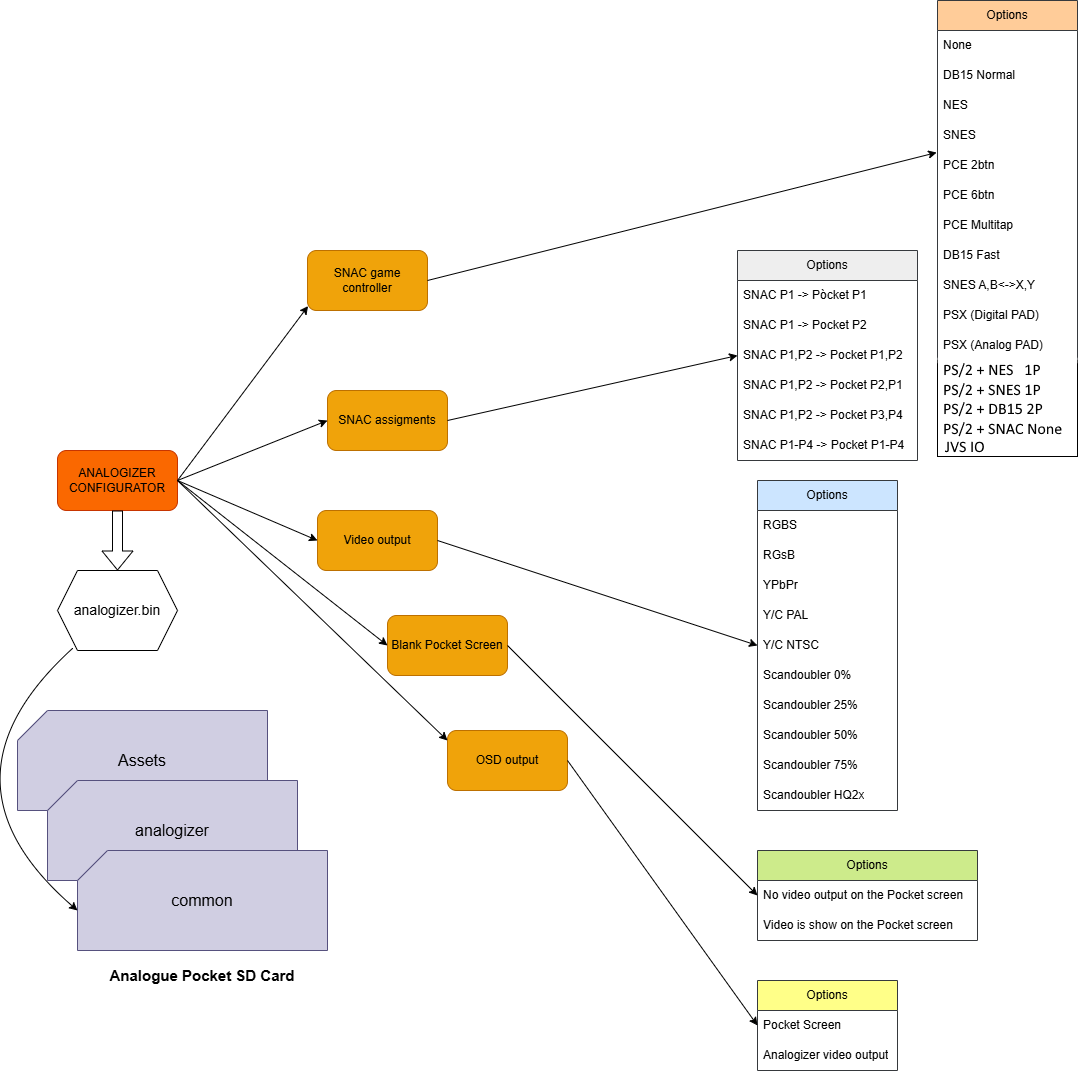
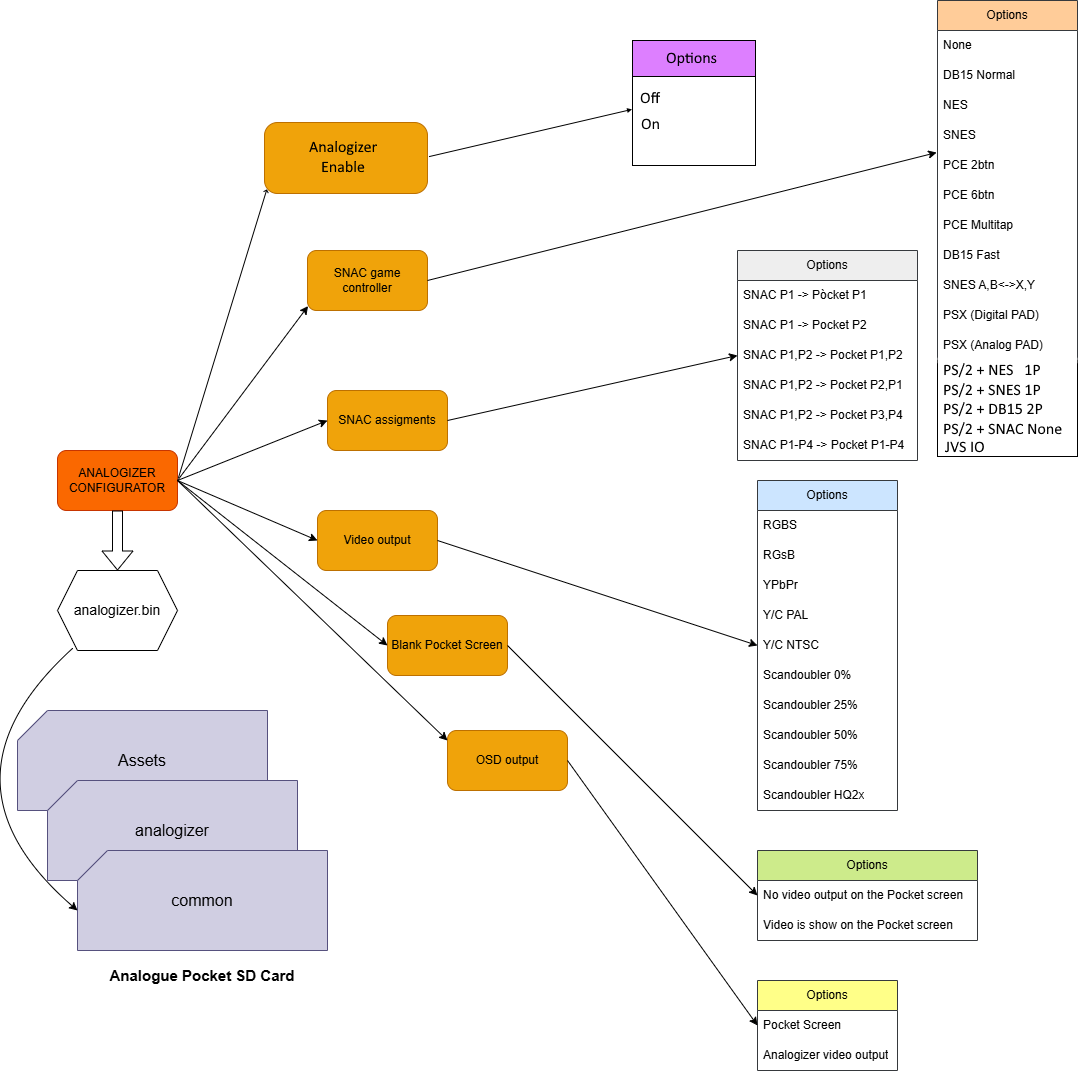
Update readme and Program Version

Changed region(s): [[0.2447, 0.0924, 0.3976, 0.1849], [0.5811, 0.0308, 0.7034, 0.1232]]

diff --git a/Program.cs b/Program.cs
@@ -43,7 +43,7 @@ class Program
  #.....#.#.   ##.#.....#.#.      #.     #.#.      #.  #.   #.     #.      #. #.
  #.    #.#.    #.#.    #.#.       #.   #. #.      #.  #.  #.      #.      #.  #
  #.    #.#.    #.#.    #.#######   ####.   #######.  #### ####### ####### #.  #
-===================== C O N F I G U R A T O R   V 0.5 =========================";
+===================== C O N F I G U R A T O R   V 0.7 =========================";
     static readonly Dictionary<int, string> MenuOptions = new Dictionary<int, string>
     {
         {1, "SNAC game controller options"},

diff --git a/README.md b/README.md
@@ -6,6 +6,7 @@ Analogizer Configurator
 * Release 0.4 [19/03/2025]: Added regional settings for analogizer.
 * Release 0.5 [03/09/2025]: Added new JVS IO SNAC device.
 * Release 0.6 [17/08/2026]: Added new PS/2 Keyboard and Mouse + gamecontroller SNAC options.
+* Release 0.7 [20/08/2026]: Added global Analogizer adapter enable/disable option (disable will bypass remaining options).
 ![diagram](img/AnalogizerConfigurator.png)
 
 Utility for generating Analogizer configuration file for the Analogue Pocket FPGA game system.
